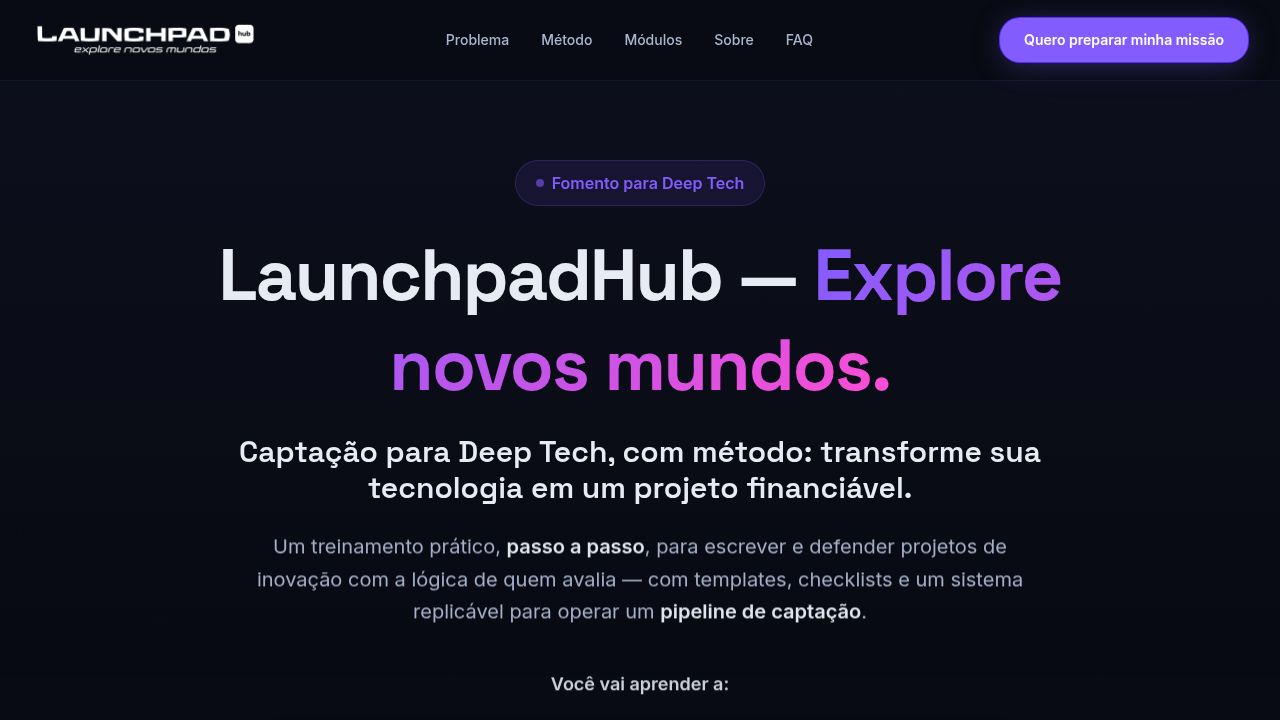
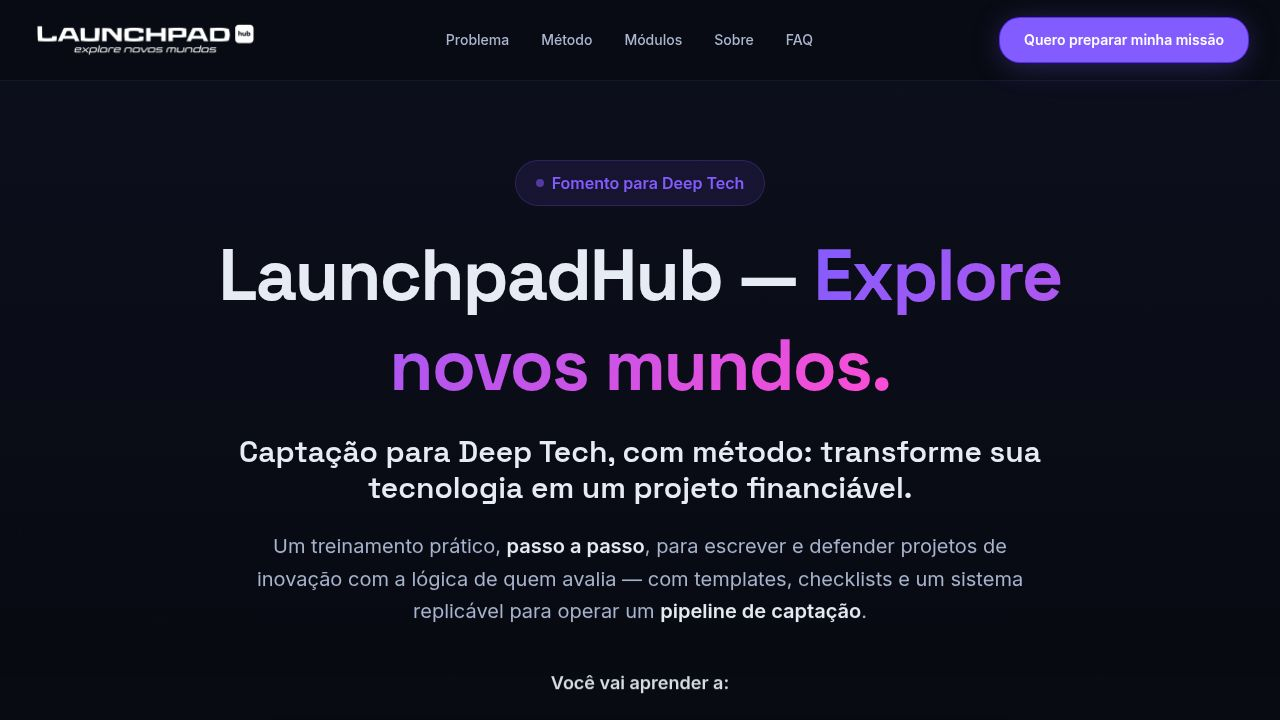
Add Google Tag Manager for website tracking and analytics
Integrates Google Tag Manager by adding the tracking script to the &lt;head&gt; and the noscript tag after the &lt;body&gt; in client/index.html.

Replit-Commit-Author: Agent
Replit-Commit-Session-Id: cc5c72fd-722a-40cb-bd3e-0e9b45827596
Replit-Commit-Checkpoint-Type: full_checkpoint
Replit-Commit-Event-Id: ebdb73fc-568f-4ef8-a7cb-b219ef684d0e
Replit-Commit-Screenshot-Url: https://storage.googleapis.com/screenshot-production-us-central1/c94249a8-a676-40ce-bce9-b202edd17bc7/cc5c72fd-722a-40cb-bd3e-0e9b45827596/6so2WH2
Replit-Helium-Checkpoint-Created: true

diff --git a/client/index.html b/client/index.html
@@ -1,6 +1,13 @@
 <!DOCTYPE html>
 <html lang="pt-BR">
   <head>
+    <!-- Google Tag Manager -->
+    <script>(function(w,d,s,l,i){w[l]=w[l]||[];w[l].push({'gtm.start':
+    new Date().getTime(),event:'gtm.js'});var f=d.getElementsByTagName(s)[0],
+    j=d.createElement(s),dl=l!='dataLayer'?'&l='+l:'';j.async=true;j.src=
+    'https://www.googletagmanager.com/gtm.js?id='+i+dl;f.parentNode.insertBefore(j,f);
+    })(window,document,'script','dataLayer','GTM-M5CQKM4M');</script>
+    <!-- End Google Tag Manager -->
     <!-- Google tag (gtag.js) -->
     <script async src="https://www.googletagmanager.com/gtag/js?id=G-1E1VYKXH59"></script>
     <script>
@@ -31,6 +38,10 @@
     <link href="https://fonts.googleapis.com/css2?family=Inter:wght@400;500;600&family=Space+Grotesk:wght@500;600;700&display=swap" rel="stylesheet">
   </head>
   <body>
+    <!-- Google Tag Manager (noscript) -->
+    <noscript><iframe src="https://www.googletagmanager.com/ns.html?id=GTM-M5CQKM4M"
+    height="0" width="0" style="display:none;visibility:hidden"></iframe></noscript>
+    <!-- End Google Tag Manager (noscript) -->
     <div id="root"></div>
     <script type="module" src="/src/main.tsx"></script>
     <script src="https://static.hotmart.com/checkout/widget.min.js"></script>